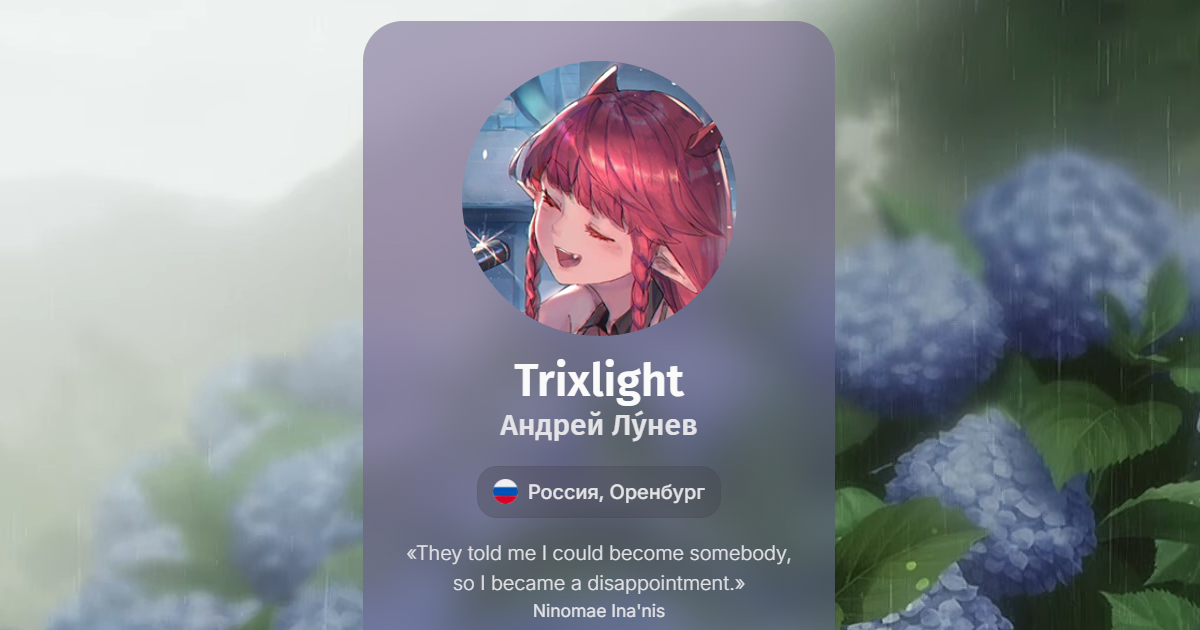
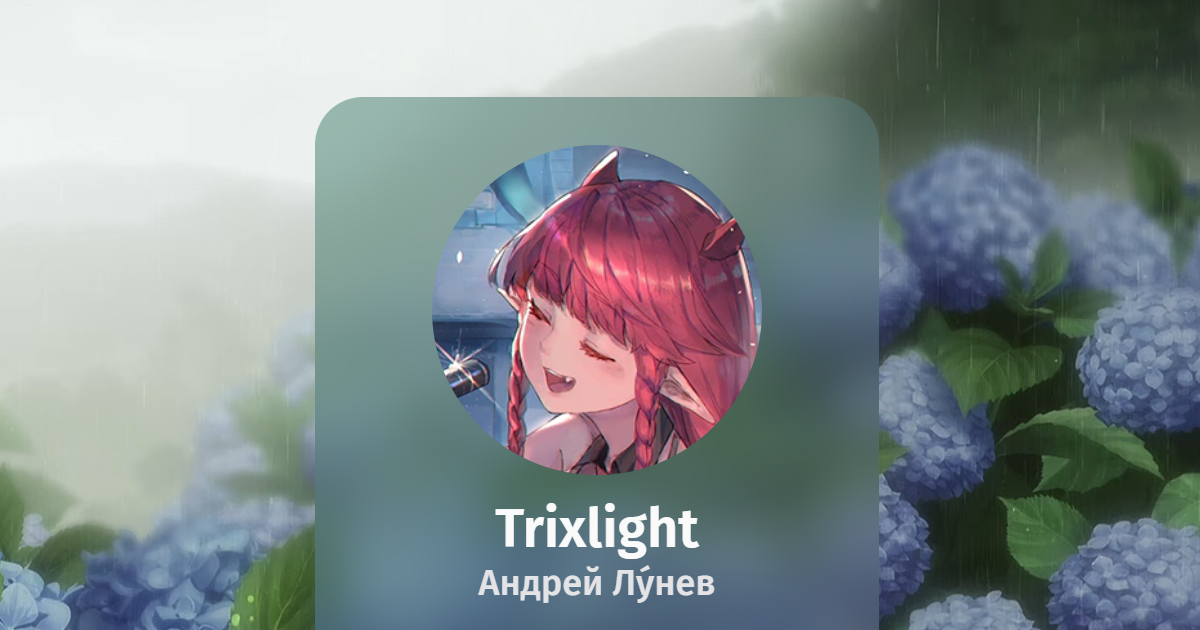
new image for OG

diff --git a/docs/index.html b/docs/index.html
@@ -1,4 +1,4 @@
-<!DOCTYPE html><html lang="ru" class="min-h-screen scroll-smooth overflow-x-hidden overflow-y-hidden"> <head><title>Trixlight's Lair</title><meta charset="utf-8"><meta name="keywords" content="Trixlight, Andy Lunev, Андрей Лунев"><meta name="author" content="Trixlight"><meta name="description" content="Простенькая визитка со ссылками на аккаунты соц.сетей"><meta name="viewport" content="width=device-width, initial-scale=1"><meta name="yandex-verification" content="abc9548534bb19e9"><!-- OG Meta Tags --><meta property="og:url" content="https://trixlight.github.io/"><meta property="og:type" content="website"><meta property="og:title" content="Trixlight's Lair"><meta property="og:description" content="Простенькая визитка со ссылками на аккаунты соц.сетей"><meta property="og:image" content="/theme/images/og-meta.png"><!-- Styles --><link href="favicon.ico" rel="icon" type="image/x-icon"><link rel="preconnect" href="https://fonts.googleapis.com"><link rel="preconnect" href="https://fonts.gstatic.com" crossorigin><link href="https://fonts.googleapis.com/css2?family=Fira+Sans:ital,wght@0,100;0,200;0,300;0,400;0,500;0,600;0,700;0,800;0,900;1,100;1,200;1,300;1,400;1,500;1,600;1,700;1,800;1,900&family=Inter:ital,opsz,wght@0,14..32,100..900;1,14..32,100..900&display=swap" rel="stylesheet"><link rel="stylesheet" href="/_astro/index.C3-x1yBA.css"></head> <body class="flex items-center justify-center min-h-screen p-2 max-sm:bg-[url(/theme/images/background-image.webp)] bg-local bg-center bg-no-repeat bg-cover"> <div id="loading" class="fixed flex flex-col w-screen h-screen top-0 left-0 right-0 z-99 items-center justify-center bg-white opacity-100 transition duration-300 ease-in-out pointer-events-none"> <img src="theme/images/loading.webp" alt="Загрузка..." fetchpriority="high" loading="eager"> <span class="inline-flex items-center text-zinc-800 font-medium animate-wiggle">Загружаем страничку...</span> </div> <video class="hidden sm:block fixed w-screen h-screen top-0 left-0 right-0 bottom-0 -z-1 object-cover" autoplay muted loop id="background-video" poster="theme/images/background-image.webp"> <source src="theme/background.webm" type="video/webm"> </video> <div class="flex flex-col relative gap-4 p-8"> <div class="gradient"></div> <header class="flex flex-col gap-4 place-items-center text-center shrink-0"> <figure> <img class="size-55 rounded-full" src="theme/images/avatar-256.webp" alt="Аватарка" loading="lazy"> </figure> <div> <h1 class="text-zinc-50 font-firasans font-semibold text-4xl">
+<!DOCTYPE html><html lang="ru" class="min-h-screen scroll-smooth overflow-x-hidden overflow-y-hidden"> <head><title>Trixlight's Lair</title><meta charset="utf-8"><meta name="keywords" content="Trixlight, Andy Lunev, Андрей Лунев"><meta name="author" content="Trixlight"><meta name="description" content="Простенькая визитка со ссылками на аккаунты соц.сетей"><meta name="viewport" content="width=device-width, initial-scale=1"><meta name="yandex-verification" content="abc9548534bb19e9"><!-- OG Meta Tags --><meta property="og:url" content="https://trixlight.github.io/"><meta property="og:type" content="website"><meta property="og:title" content="Trixlight's Lair"><meta property="og:description" content="Простенькая визитка со ссылками на аккаунты соц.сетей"><meta property="og:image" content="https://trixlight.github.io/theme/images/og-meta.png"><!-- Styles --><link href="favicon.ico" rel="icon" type="image/x-icon"><link rel="preconnect" href="https://fonts.googleapis.com"><link rel="preconnect" href="https://fonts.gstatic.com" crossorigin><link href="https://fonts.googleapis.com/css2?family=Fira+Sans:ital,wght@0,100;0,200;0,300;0,400;0,500;0,600;0,700;0,800;0,900;1,100;1,200;1,300;1,400;1,500;1,600;1,700;1,800;1,900&family=Inter:ital,opsz,wght@0,14..32,100..900;1,14..32,100..900&display=swap" rel="stylesheet"><link rel="stylesheet" href="/_astro/index.C3-x1yBA.css"></head> <body class="flex items-center justify-center min-h-screen p-2 max-sm:bg-[url(/theme/images/background-image.webp)] bg-local bg-center bg-no-repeat bg-cover"> <div id="loading" class="fixed flex flex-col w-screen h-screen top-0 left-0 right-0 z-99 items-center justify-center bg-white opacity-100 transition duration-300 ease-in-out pointer-events-none"> <img src="theme/images/loading.webp" alt="Загрузка..." fetchpriority="high" loading="eager"> <span class="inline-flex items-center text-zinc-800 font-medium animate-wiggle">Загружаем страничку...</span> </div> <video class="hidden sm:block fixed w-screen h-screen top-0 left-0 right-0 bottom-0 -z-1 object-cover" autoplay muted loop id="background-video" poster="theme/images/background-image.webp"> <source src="theme/background.webm" type="video/webm"> </video> <div class="flex flex-col relative gap-4 p-8"> <div class="gradient"></div> <header class="flex flex-col gap-4 place-items-center text-center shrink-0"> <figure> <img class="size-55 rounded-full" src="theme/images/avatar-256.webp" alt="Аватарка" loading="lazy"> </figure> <div> <h1 class="text-zinc-50 font-firasans font-semibold text-4xl">
 Trixlight
 </h1> <h2 class="text-zinc-200 font-firasans font-medium text-2xl">
 Андрей Лу́нев
